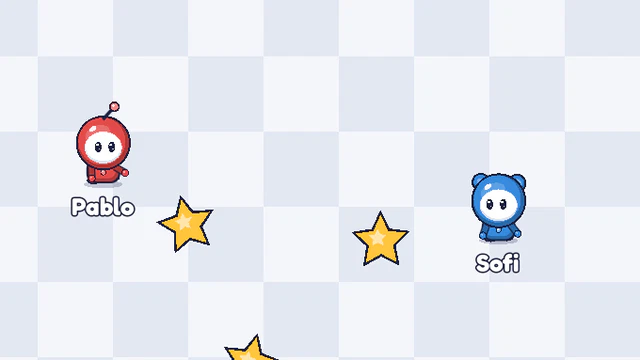
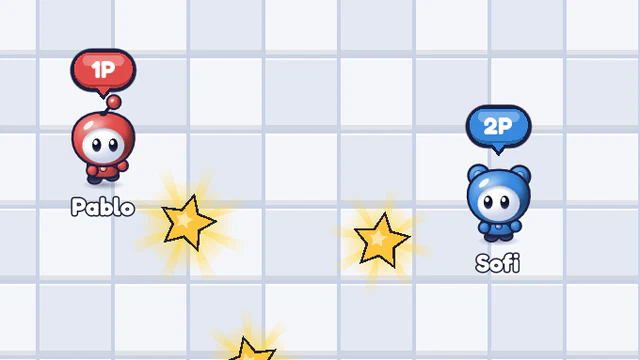
Miniaturas con el arte nuevo y ADR 0004 actualizado
- assets/thumbs: regeneradas con tools/make_thumbnails.gd después de
  integrar las mascotas con volumen y el arte nuevo de los juegos.
- ADR 0004: sección "calidad de maqueta" con las decisiones de esta
  ronda (sombreado por vértice de las mascotas, marca, fondo, arte de
  juegos, celular y miniaturas) y enlaces a los ADR 0007–0009.
- El ADR del arte de los juegos pasa a 0009 (0008 ya era el del fondo).

Claude-Session: https://claude.ai/code/session_016xnHVUnW38TmAZSdvZGH7C

Changed region(s): [[0.0, 0.0, 1.0, 1.0]]

diff --git a/docs/adr/0004-sistema-visual.md b/docs/adr/0004-sistema-visual.md
@@ -16,6 +16,17 @@ El prototipo usaba el tema por defecto de Godot sobre fondo oscuro. La referenci
 - **Transiciones**: entre pantallas de la TV, un barrido corto (≤ 0,45 s) de bloques con los colores de `UiTheme.BRICKS`, con volumen, estrellas en la punta y una estrella en el centro mientras todo está tapado (`host/ui/widgets/transition.gd`).
 - **Fondo de la TV**: escenario de fiesta con profundidad, desenfocado y más suave que la UI (ver [ADR 0008](0008-fondo-escenario-desenfocado.md)). El ícono de cada tipo de control se dibuja con `UiTheme.draw_control_icon` (tarjetas del lobby e intro de cada juego).
 
+## Actualización (27/09/2026): calidad de maqueta
+
+Las maquetas de referencia están en `docs/design/` (lobby, un juego y hoja de mascotas). Para acercarse a su acabado de "juguete 3D" sin sprites:
+- **Mascotas con sombreado por vértice** (`core/ui/widgets/mascot_shading.gd`): cada parte es una malla de anillos cuyos vértices llevan el color de una esfera iluminada (luz arriba a la izquierda, rebote abajo, luz de borde en colores oscuros). La GPU interpola y da el degradé suave; el contorno grueso es un anillo más de la misma malla. Mallas y colores se cachean: una mascota sigue siendo 1–2 draw calls.
+  *Ejemplo:* la cabeza roja de 1P ya no es "círculo rojo + círculo más claro": es una esfera con brillo arriba y sombra abajo, como la hoja de referencia.
+- **Marca y apariencia**: logo PARTY-GAME, presentación IO-GAMES, 7 estilos y 10 colores elegibles ([ADR 0007](0007-apariencia-del-jugador.md)). Los textos sobre el color de un jugador usan `UiTheme.text_on(bg)` (contraste ≥ 3:1 comprobado por test).
+- **Fondo de menús**: escenario desenfocado ([ADR 0008](0008-fondo-escenario-desenfocado.md)).
+- **Arte de los juegos**: tablero con volumen, marcador con la cabeza de cada mascota y globito 1P–4P ([ADR 0009](0009-arte-de-los-juegos.md)).
+- **Celular**: botones "de juguete" con bisel que se aplastan al tocarlos (`controller/widgets/toy_button.gd`).
+- **Miniaturas reales** de cada juego en el lobby, generadas con `tools/make_thumbnails.gd`.
+
 ## Motivos
 - Nítido en 720p, 1080p y 4K sin exportar imágenes en varios tamaños; el APK queda liviano (~100 KB de fuentes, nada de sprites).
 - Un único lugar para cambiar la identidad cuando llegue el arte definitivo.
